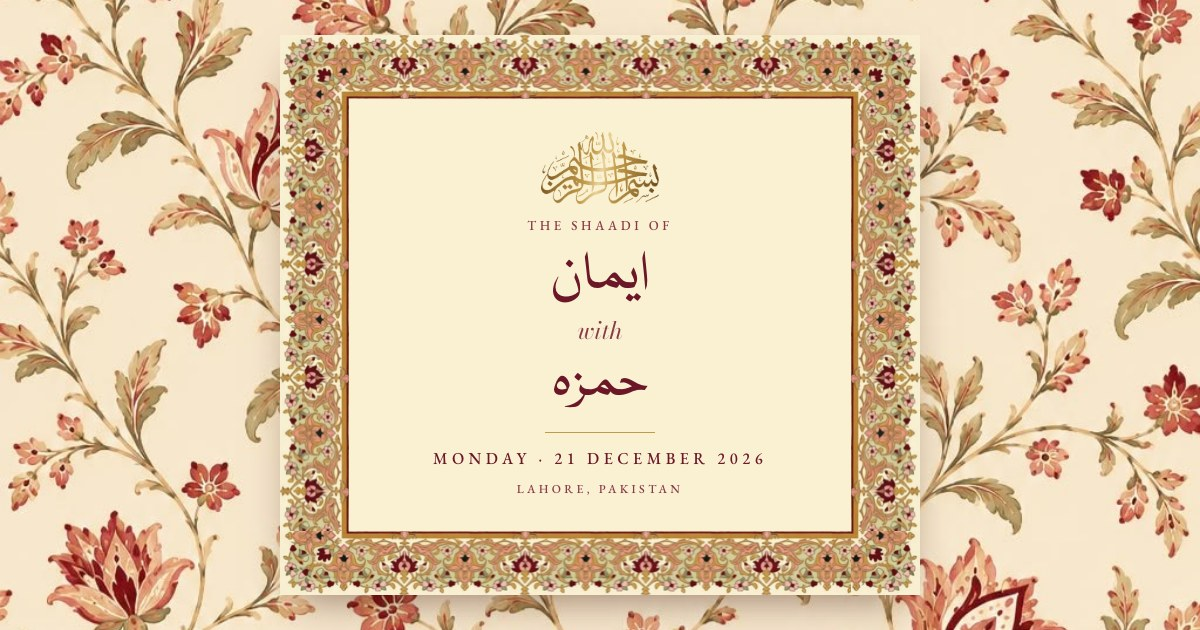
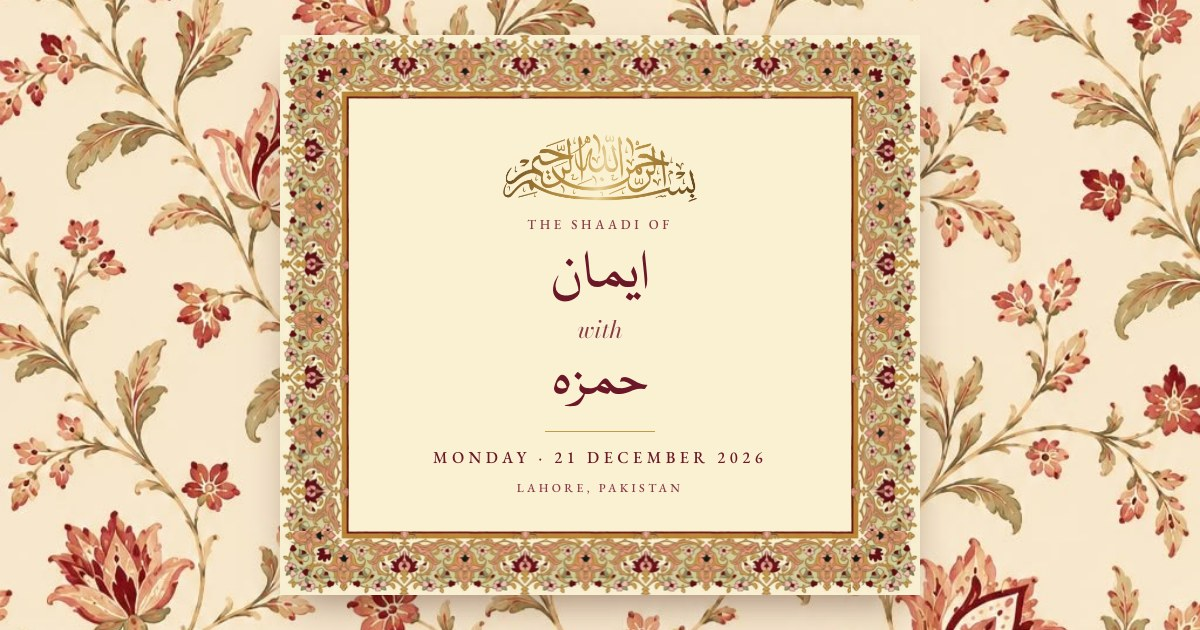
Bismillah: the user's calligraphy, in the same gold, on both invitations
New alpha mask from their image (checkerboard background keyed out; old
mask kept in reference/). It is wide and flat (740x264), so: Shaadi at
230px wide; Reception seated inside the arch's dome at 330 arch-units with
the words below re-centred (67px either side). Link previews regenerated.

diff --git a/src/entry-og.tsx b/src/entry-og.tsx
@@ -25,7 +25,7 @@ function ShaadiCard() {
     <div style={{ position: 'relative', width: 640, height: 560, background: '#faf1d2', boxShadow: '0 18px 40px -16px rgba(60,20,10,0.55)' }}>
       <ReferenceFrame className="folio-frame" bandRatio={0.1} />
       <div style={{ position: 'absolute', inset: 0, zIndex: 2, display: 'flex', flexDirection: 'column', alignItems: 'center', justifyContent: 'center', textAlign: 'center', padding: '0 90px' }}>
-        <div className="hero-calligraphy" style={{ width: 118, margin: '0 auto' }} />
+        <div className="hero-calligraphy" style={{ width: 196, margin: '0 auto' }} />
         <p style={{ ...caps, fontSize: 13, marginTop: 12, color: 'var(--ink-soft)' }}>The Shaadi of</p>
         {/* stacked as on the invitation: ایمان / with / حمزہ */}
         <p style={{ fontFamily: "'Nafees Names'", fontSize: 58, lineHeight: 1.25, color: 'var(--ink)', marginTop: 6 }} lang="ur" dir="rtl">{content.couple.firstArabic}</p>
@@ -45,7 +45,7 @@ function ReceptionCard() {
     <div className="hero-folio hero-arch" style={{ ['--vw' as string]: `${(600 * 1016 / 1466) / 100}px`, position: 'relative', width: 600 * 1016 / 1466, height: 600, minHeight: 0, padding: 0, display: 'block', boxShadow: '0 18px 40px -16px rgba(60,20,10,0.45)' }}>
       <ArchFrame />
       <div style={{ position: 'absolute', inset: 0, zIndex: 3, display: 'flex', flexDirection: 'column', alignItems: 'center', textAlign: 'center', paddingTop: 72 }}>
-        <div className="hero-calligraphy" style={{ width: 112, margin: '0 auto' }} />
+        <div className="hero-calligraphy" style={{ width: 150, margin: '0 auto' }} />
         <p style={{ ...caps, fontSize: 11, letterSpacing: '0.24em', marginTop: 40, color: 'var(--ink-soft)' }}>The Reception of</p>
         <p style={{ fontFamily: "'Pinyon Script'", fontSize: 60, lineHeight: 1.12, color: 'var(--ink)', marginTop: 6 }}>{content.couple.first}</p>
         <p style={{ fontFamily: 'var(--font-display)', fontStyle: 'italic', fontSize: 22, color: 'var(--ink-soft)', margin: '0 0 2px' }}>and</p>

diff --git a/src/styles/sections.css b/src/styles/sections.css
@@ -449,7 +449,7 @@
 /* The Bismillah calligraphy: an alpha mask filled with our gold foil */
 .hero-calligraphy {
   width: min(78%, 300px);
-  aspect-ratio: 643 / 391;
+  aspect-ratio: 740 / 264;
   margin: 0 auto;
   background-image: linear-gradient(105deg, var(--gold-deep) 0%, var(--gold-dark) 22%, var(--gold) 42%, var(--gold-light) 52%, var(--gold) 62%, var(--gold-dark) 80%, var(--gold-deep) 100%);
   -webkit-mask-image: url('../assets/masks/bismillah-mask.png');
@@ -741,7 +741,7 @@
 .hero-inner-folio { display: flex; flex-direction: column; }
 .hero-opener { flex: none; }
 .hero-centre { margin: 0; padding: 2.2rem 0 0.6rem; }
-.hero-folio .hero-calligraphy { width: min(46%, 180px); }
+.hero-folio .hero-calligraphy { width: min(70%, 230px); }
 .hero-folio .hero-parents:not(.hero-after) { margin-top: 0; }
 .hero-folio .hero-names-big { margin-top: 2rem; }
 .hero-folio .hero-after { margin-top: 1.6rem; }
@@ -1210,9 +1210,9 @@ html.lenis, html.lenis body { height: auto; }
 .hero-arch .hero-inner { padding-left: 0; padding-right: 0; }
 /* the Bismillah sits a touch lower in the dome; the words below move half as
    much so they stay midway between it and the arch's lower corners */
-.hero-arch .hero-opener { position: relative; top: calc(var(--s) * 18); }
-.hero-arch .hero-centre { padding-top: calc(2.2rem + var(--s) * 68); position: relative; top: calc(var(--s) * 9); }
-.hero-arch .hero-calligraphy { width: calc(var(--s) * 290); }
+.hero-arch .hero-opener { position: relative; top: calc(var(--s) * -14); }
+.hero-arch .hero-centre { padding-top: calc(2.2rem + var(--s) * 68); position: relative; top: calc(var(--s) * -8); }
+.hero-arch .hero-calligraphy { width: calc(var(--s) * 330); }
 
 /* Walima: the verse (cover page and envelope card) sits on falling watercolour
    flowers instead of the folk pattern; the image is a little taller than the
